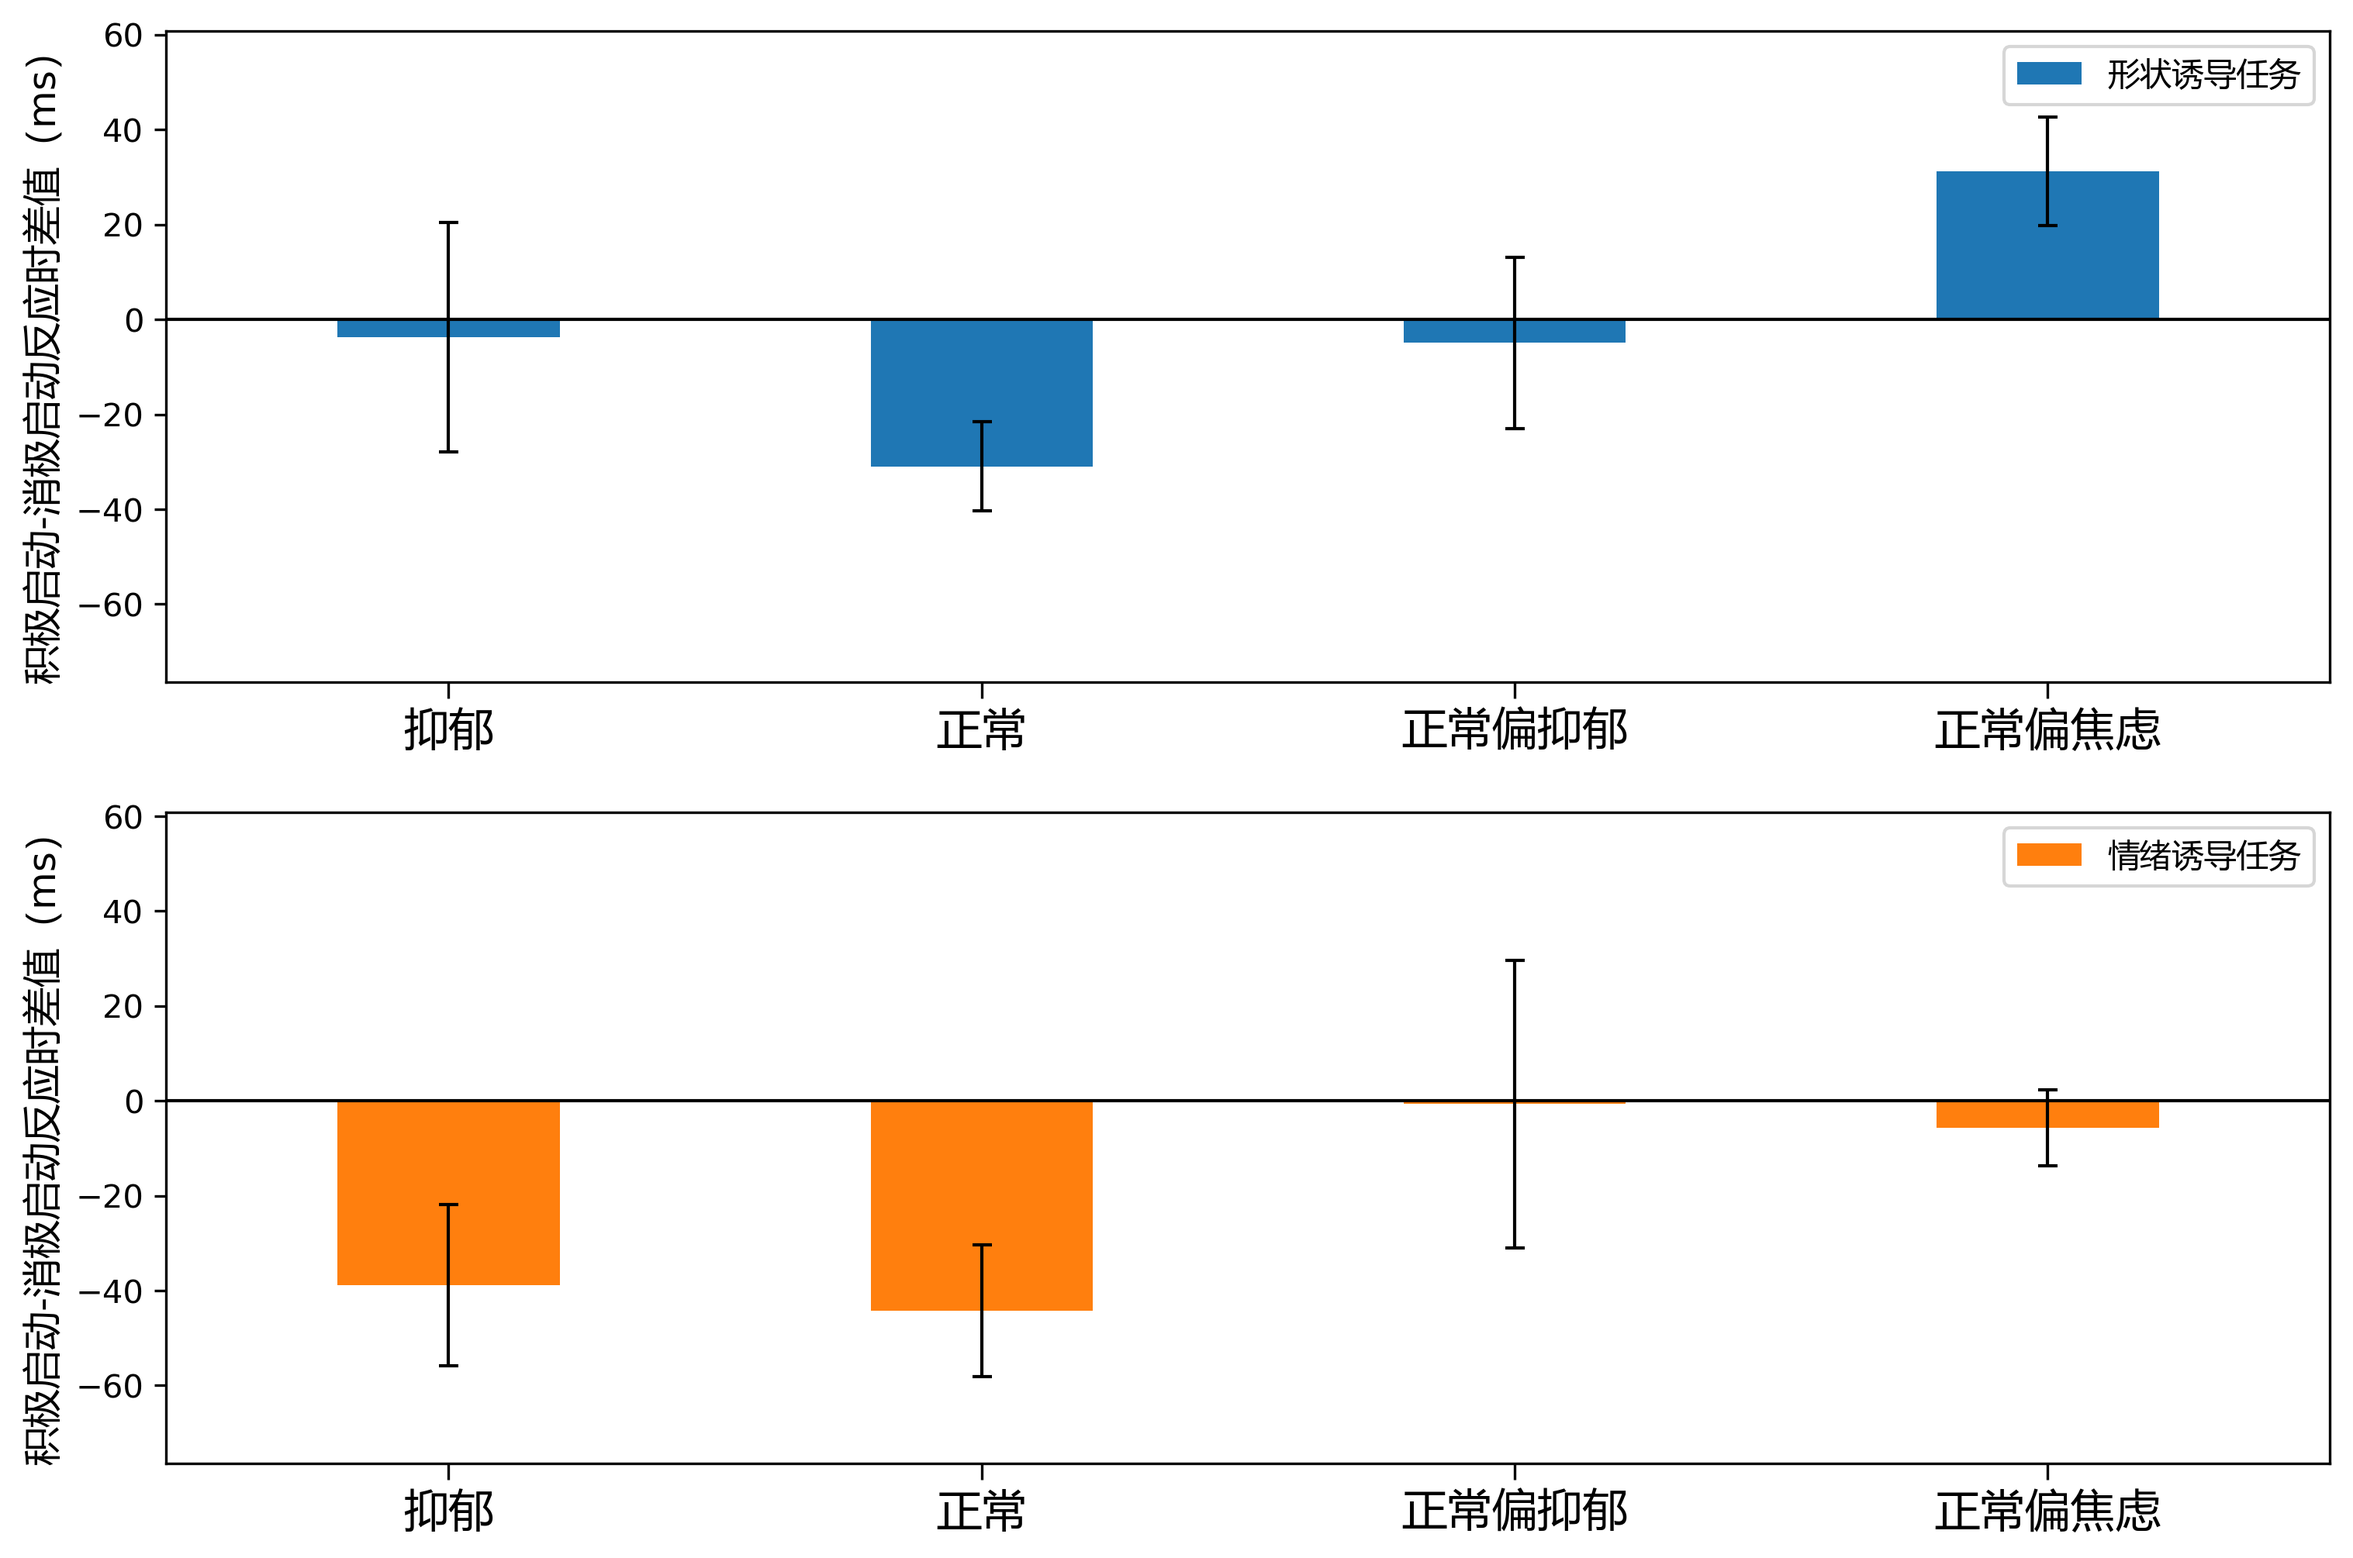
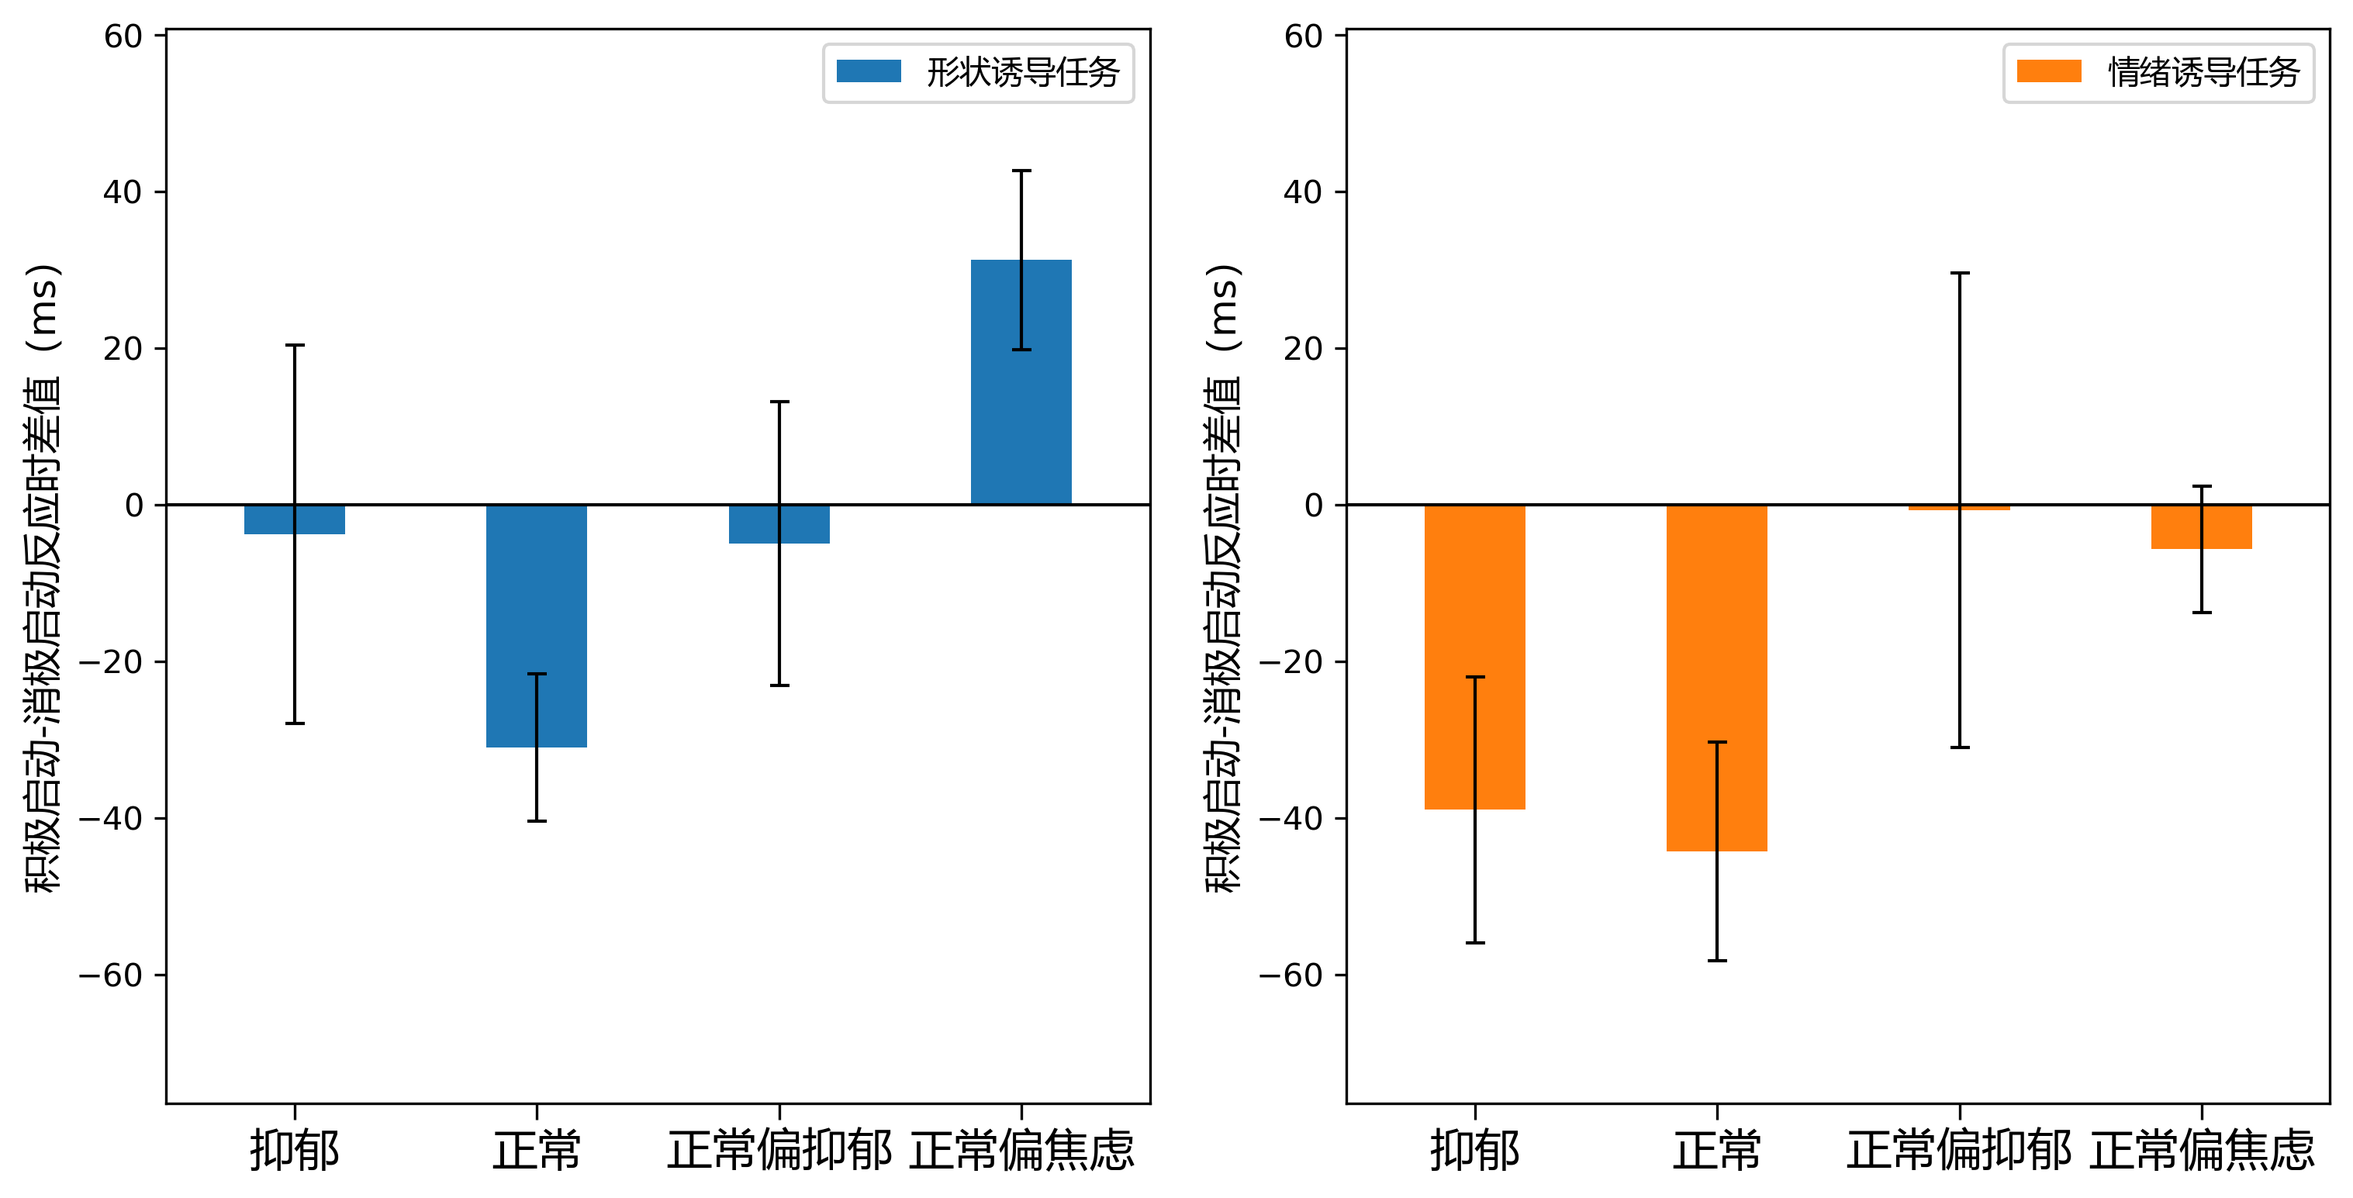
del fig2

diff --git a/plot_2nd.py b/plot_2nd.py
@@ -172,9 +172,9 @@ def plotFigure2():
 
 
 def plotFigure3():
-    fig = figure(figsize=(12,8))
-    ax1 = fig.add_subplot(211)
-    ax2 = fig.add_subplot(212)
+    fig = figure(figsize=(12,5))
+    ax1 = fig.add_subplot(121)
+    ax2 = fig.add_subplot(122)
     groups = df['group'].unique()
     allDataShape = {}
     allDataEmotion = {}
@@ -187,7 +187,7 @@ def plotFigure3():
         allDataEmotion[group] = dfGroup['emotion_pos-neg'].values
 
     y_min, y_max = (0, 0)
-    bar_width = 0.5
+    bar_width = 0.6
     
     for i, group in enumerate(groups):
         dataEmotion = allDataEmotion[group]
@@ -430,7 +430,7 @@ def main():
     plotFigure3()
     plotFigure4()
     plotFigure5()
-    plotCorrelation()
+    # plotCorrelation()
 
 if __name__ == '__main__':
     main()
